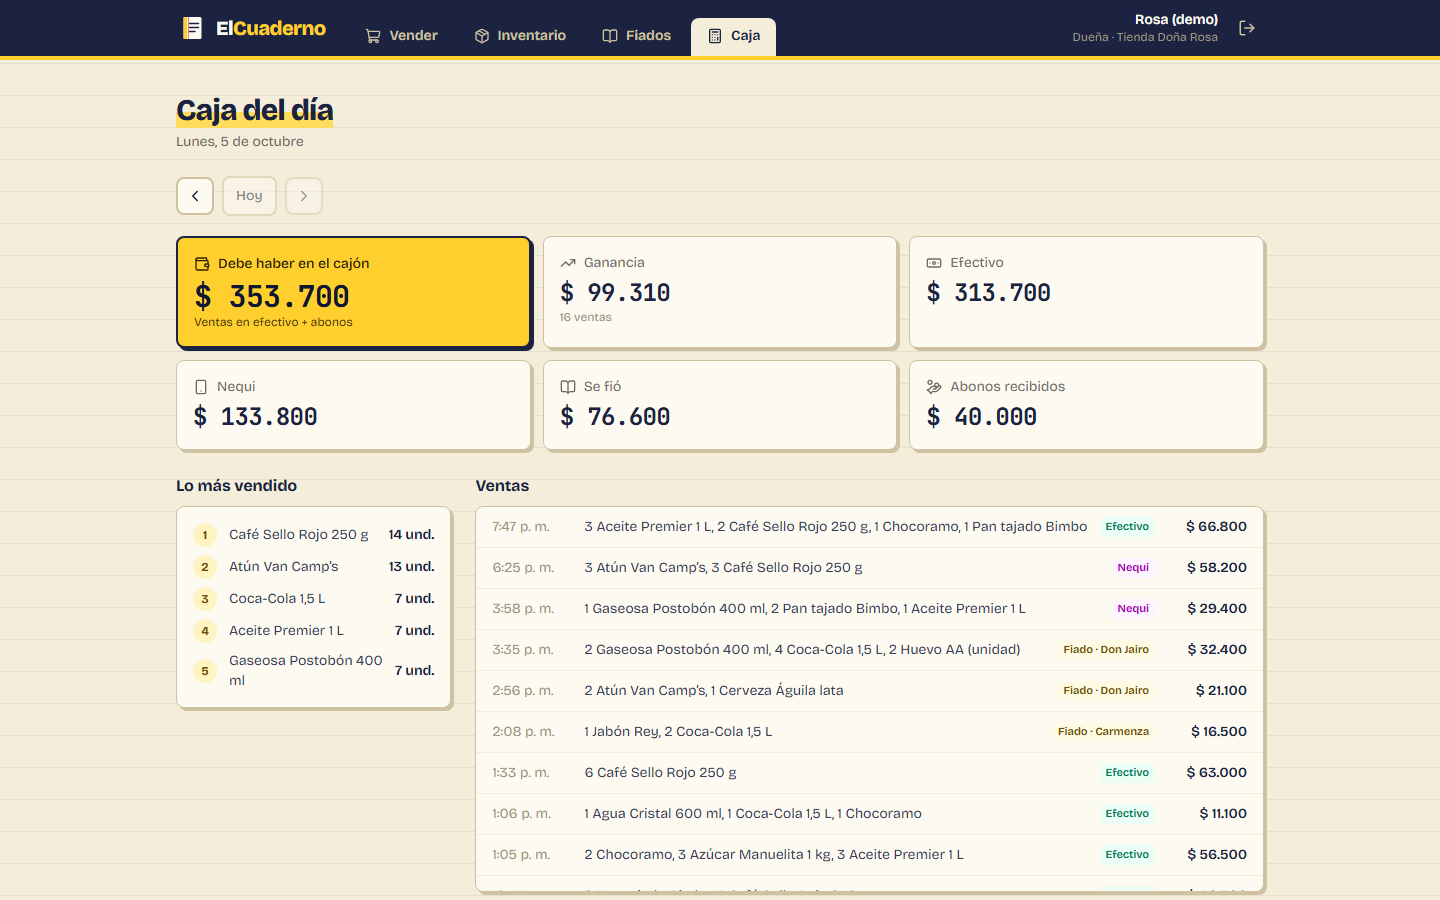
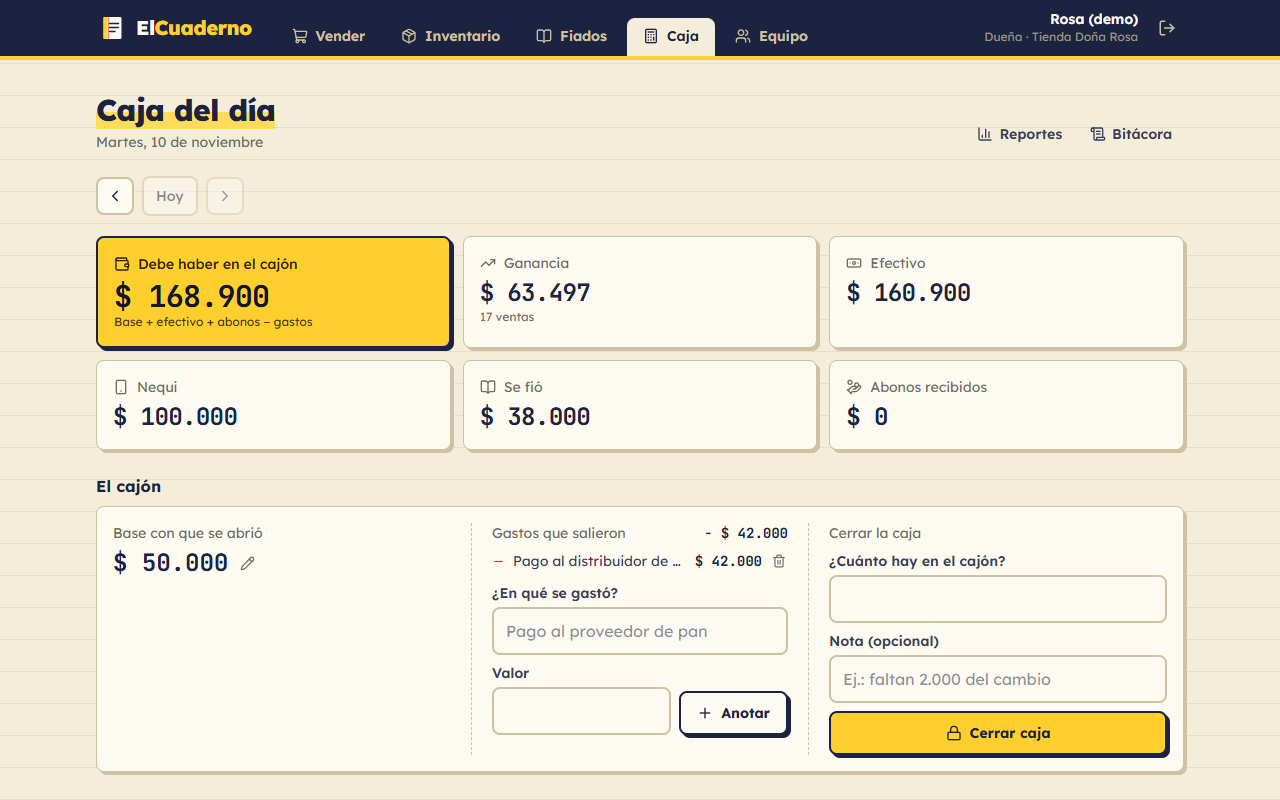
Documentación: arquitectura, 17 decisiones y capturas nuevas
- docs/arquitectura.md: piezas y viaje de una petición, sesión con versión, una venta paso a
  paso, modelo de datos con sus restricciones, módulos, CI y límites conocidos (diagramas mermaid).
- docs/decisiones.md: 17 decisiones con alternativas y costo.
- 01-diseno.md al día (varias tiendas, equipo, caja, granel, Ley 1581) y README enlazado.
- Capturas tomadas de la demo publicada, con reportes y equipo.

Changed region(s): [[0.0, 0.0, 1.0, 1.0], [0.7812, 0.1562, 0.9062, 0.1875]]

diff --git a/docs/arquitectura.md b/docs/arquitectura.md
@@ -1,0 +1,194 @@
+# Arquitectura de ElCuaderno
+
+Cómo está armado el sistema y por qué. Las decisiones una por una están en [`decisiones.md`](decisiones.md); las historias de usuario y las reglas de negocio, en [`01-diseno.md`](01-diseno.md).
+
+## 1. Las piezas y por dónde viaja una petición
+
+```mermaid
+flowchart LR
+    subgraph Celular["Celular o computador de la tienda"]
+        W["Web React<br/>(misma página para dueña y cajero)"]
+    end
+    subgraph Vercel["Vercel"]
+        S["Archivos estáticos<br/>+ CSP y cabeceras"]
+        R["Reescritura /api/*"]
+    end
+    subgraph Render["Render (plan gratuito)"]
+        A["API NestJS<br/>guarda global · Zod · bitácora"]
+    end
+    subgraph Neon["Neon"]
+        P[("PostgreSQL 16")]
+    end
+
+    W -- "GET /, /assets/*" --> S
+    W -- "fetch('/api/...')<br/>cookie httpOnly" --> R
+    R -- "HTTPS" --> A
+    A -- "SQL (Drizzle)" --> P
+```
+
+- **La web y la API comparten dominio.** La web nunca llama a `onrender.com`: llama a `/api/...` en su propio dominio y Vercel la reenvía ([`vercel.json`](../apps/web/vercel.json)). Gracias a eso la cookie de sesión puede ser `SameSite=Strict` y no hace falta CORS en producción.
+- **Un solo paquete de tipos.** `packages/shared` tiene los esquemas Zod y las funciones de dinero y peso. La web los importa del código fuente (alias de Vite) y la API los compila. Una regla, como "contraseña con letras y números" o "fiar exige cliente", se escribe una sola vez.
+- **La demo se siembra al arrancar.** Render corre `migrar → sembrar → arrancar`. Así la "Tienda Doña Rosa" siempre amanece limpia, y de paso se borran las tiendas de prueba que la gente registró hace más de 7 días.
+
+## 2. Sesión: cookie httpOnly y versión de sesión
+
+```mermaid
+sequenceDiagram
+    autonumber
+    participant N as Navegador
+    participant G as Guarda global (NestJS)
+    participant BD as PostgreSQL
+
+    N->>G: POST /api/auth/login (correo, clave)
+    Note over G: 5 fallos por correo en 15 min → 429
+    G->>BD: usuario + tienda; bcrypt.compare
+    G-->>N: Set-Cookie elcuaderno_sesion (HttpOnly, Secure, SameSite=Strict, 8 h)<br/>JWT con { sub, tiendaId, rol, v }
+
+    N->>G: GET /api/productos (con la cookie)
+    G->>G: verifica la firma del JWT
+    G->>BD: SELECT activo, version_sesion FROM usuarios WHERE id = sub
+    alt desactivado o v distinta
+        G-->>N: 401 "Tu sesión se cerró"
+    else vigente
+        G->>G: revisa @Roles('DUENO') si la ruta lo pide
+        G-->>N: 200 (solo datos de su tiendaId)
+    end
+```
+
+- **JavaScript nunca ve el token.** Lo que la web guarda en `localStorage` es solo el nombre, el rol y la tienda, para pintar la pantalla mientras `/auth/yo` confirma la sesión.
+- **Cerrar sesiones de verdad.** Un JWT normal vale hasta que vence, aunque el cajero ya se haya ido. Por eso cada usuario tiene `version_sesion`, que sube cuando la dueña lo desactiva, le pone una clave temporal o él mismo cambia su clave. La guarda compara esa versión en cada petición (una consulta por llave primaria), y el token viejo deja de servir de inmediato.
+- **Aislamiento entre tiendas.** Cada consulta filtra por el `tiendaId` que viene en el token, nunca por uno que mande el navegador. Hay pruebas que intentan leer y modificar datos de otra tienda y esperan 404.
+
+## 3. Una venta, paso a paso
+
+```mermaid
+sequenceDiagram
+    autonumber
+    participant C as Cajero
+    participant V as VentasService
+    participant BD as PostgreSQL
+
+    C->>V: POST /api/ventas { medio, clienteId?, items[] }
+    Note over V: ZodPipe: fiar exige cliente,<br/>sin productos repetidos
+    V->>BD: BEGIN
+    V->>BD: productos de la tienda (precio, costo, por peso)
+    Note over V: subtotal = precio × cantidad<br/>o precio del kilo × gramos ÷ 1000, redondeado a $50
+    opt medio = FIADO
+        V->>BD: SELECT cliente ... FOR UPDATE
+        V->>V: deuda + total ≤ cupo
+    end
+    loop cada producto
+        V->>BD: UPDATE productos SET stock = stock − n<br/>WHERE id = ? AND stock ≥ n
+        alt 0 filas
+            V->>BD: ROLLBACK
+            V-->>C: 422 "No hay suficiente arroz: quedan 2"
+        end
+    end
+    V->>BD: INSERT venta + detalles (precio y costo del momento)
+    V->>BD: COMMIT
+    V-->>C: 201 venta
+    Note over V: el interceptor anota en la bitácora:<br/>"Registró una venta · EFECTIVO · $ 7.000"
+```
+
+- **Sin sobreventa.** El `WHERE stock >= n` hace que la base decida: si dos cajeros venden la última unidad al mismo tiempo, solo una fila se actualiza. Una prueba lanza 5 ventas simultáneas de la última unidad y verifica que solo una gana.
+- **El cupo no se salta.** El `FOR UPDATE` sobre el cliente hace que dos fiados o abonos simultáneos se esperen el uno al otro.
+- **El pasado no cambia.** El detalle guarda precio, costo, subtotal y costo total del momento. La caja y los reportes suman esas columnas, así que subir un precio hoy no altera la ganancia de ayer.
+
+## 4. Modelo de datos
+
+```mermaid
+erDiagram
+    TIENDAS ||--o{ USUARIOS : tiene
+    TIENDAS ||--o{ PRODUCTOS : vende
+    TIENDAS ||--o{ CLIENTES : atiende
+    TIENDAS ||--o{ VENTAS : registra
+    TIENDAS ||--o{ MOVIMIENTOS_CAJA : "base y gastos"
+    TIENDAS ||--o{ CIERRES_CAJA : "uno por día"
+    VENTAS ||--|{ DETALLES_VENTA : contiene
+    PRODUCTOS ||--o{ DETALLES_VENTA : aparece_en
+    PRODUCTOS ||--o{ ENTRADAS_INVENTARIO : "llegadas"
+    CLIENTES |o--o{ VENTAS : "fiado"
+    CLIENTES ||--o{ ABONOS : paga
+    USUARIOS ||--o{ VENTAS : hace
+
+    TIENDAS { int id PK
+      text nombre
+      timestamptz creada_en
+      timestamptz politica_aceptada_en }
+    USUARIOS { int id PK
+      text email UK
+      text rol "DUENO | CAJERO"
+      bool activo
+      int version_sesion }
+    PRODUCTOS { int id PK
+      int precio "por unidad o por kilo"
+      int costo "promedio ponderado"
+      int stock "unidades o gramos, CHECK >= 0"
+      bool por_peso
+      bool activo }
+    CLIENTES { int id PK
+      int cupo
+      bool autoriza_datos "Ley 1581"
+      timestamptz suprimido_en }
+    VENTAS { int id PK
+      text medio "EFECTIVO | NEQUI | FIADO"
+      int total
+      timestamptz anulada_en "con motivo y quién" }
+    DETALLES_VENTA { int cantidad
+      int precio_unitario
+      int subtotal
+      int costo_total }
+    BITACORA { text usuario_nombre
+      text accion
+      text detalle
+      timestamptz creado_en }
+```
+
+Reglas que vive en la base (además de las del código), para que ni un error de programación las rompa:
+
+| Tabla | Restricción |
+|---|---|
+| `productos` | `stock >= 0`, `precio > 0`, `0 <= costo <= precio` |
+| `ventas` | un fiado siempre tiene cliente; la anulación guarda fecha, quién y motivo, las tres o ninguna |
+| `movimientos_caja` | una sola base por tienda y día (índice único parcial); un gasto siempre tiene concepto |
+| `cierres_caja` | un cierre por tienda y día |
+| `bitacora` | sin llaves foráneas (sobrevive al usuario) y un trigger impide `UPDATE` y `DELETE`; solo la recarga de la demo, dentro de su transacción, la puede vaciar |
+
+La **deuda** de cada vecino no es una columna: se calcula como fiados no anulados menos abonos, con subconsultas. Nunca queda desincronizada.
+
+## 5. Módulos de la API
+
+| Módulo | Qué hace |
+|---|---|
+| `auth` | login, registro de tiendas, cambio de clave, guarda global (`@Publico`, `@Roles`), límites de intentos y de registros |
+| `usuarios` | equipo de la tienda: crear cajeros, desactivarlos, clave temporal |
+| `productos` | catálogo, llegadas de mercancía con costo promedio, venta a granel |
+| `clientes` | vecinos, cupos, abonos y supresión de datos (Ley 1581) |
+| `ventas` | venta atómica y anulación (solo de hoy, sin dejar saldo a favor) |
+| `caja` | caja del día, base, gastos, cierre y reportes por rango |
+| `bitacora` | interceptor que anota cada cambio que salió bien y su consulta paginada |
+| `comun` | `ZodPipe`, `IdPipe`, errores de negocio (422) y filtro de errores inesperados |
+
+## 6. Calidad: qué revisa el CI en cada cambio
+
+```mermaid
+flowchart LR
+    PR["Push o Pull Request"] --> L["ESLint<br/>+ Vitest (12)"]
+    PR --> J["Jest + Supertest<br/>contra PostgreSQL (90)"]
+    PR --> B["Build de la web<br/>(tipos de TypeScript)"]
+    PR --> E["Playwright (14)<br/>escritorio y celular<br/>+ axe WCAG 2.1 AA"]
+    L & J & B & E --> M{"¿Todo verde?"}
+    M -- sí --> U["Se une a main → Render y Vercel publican"]
+```
+
+- **Jest** levanta la app completa contra un PostgreSQL real, no contra simulaciones. Así prueba los `CHECK`, los bloqueos `FOR UPDATE`, el trigger de la bitácora y las zonas horarias.
+- **Playwright** usa la app compilada, como en producción, con la API sembrada con la demo. Recorre lo que haría una persona: entrar con las notas adhesivas, vender, registrar una tienda, crear un cajero y desactivarlo.
+- **axe-core** revisa la accesibilidad de todas las pantallas. Ya encontró y se arreglaron un rojo y un gris con poco contraste, botones sin nombre en el celular y una gráfica sin foco visible.
+- **Dependabot** propone cada semana las actualizaciones, y cada una pasa por este mismo CI antes de unirse.
+
+## 7. Límites conocidos (y qué haría después)
+
+- **La API duerme.** En el plan gratuito de Render se apaga tras un rato sin uso y la primera petición tarda cerca de un minuto. La pantalla de acceso lo avisa. En producción real iría en un plan siempre encendido.
+- **Límites en memoria.** Los contadores de intentos de login y de registros viven en la memoria del proceso. Con una sola instancia funciona; con varias, irían a la base de datos o a Redis.
+- **Sin facturación electrónica** (DIAN) ni pagos en línea: están fuera del alcance a propósito.
+- **Sin modo sin conexión.** Si se cae el internet en la tienda, no se puede vender. Una PWA con cola de ventas pendientes sería el siguiente paso grande.

diff --git a/docs/decisiones.md b/docs/decisiones.md
@@ -1,0 +1,105 @@
+# Decisiones de diseño
+
+Cada decisión tiene lo que se escogió, qué otras opciones había y qué se paga por ella. Sirve para entender el código y para no volver a discutir lo ya decidido sin una razón nueva.
+
+### D-01 · El dinero en pesos enteros (`integer`)
+- **Se escogió:** guardar todo en pesos enteros, sin decimales, validado con Zod (`int()`).
+- **Alternativas:** `numeric(12,2)` o `float`.
+- **Por qué:** en Colombia los precios no llevan centavos, y con `float` aparecen errores de redondeo (0,1 + 0,2 ≠ 0,3).
+- **Costo:** si algún día se vendiera en otra moneda con centavos, habría que migrar a centésimas.
+
+### D-02 · La base de datos decide si hay stock
+- **Se escogió:** `UPDATE productos SET stock = stock − n WHERE id = ? AND stock >= n` dentro de la transacción de la venta, más un `CHECK (stock >= 0)`.
+- **Alternativas:** leer el stock, comparar en el código y luego escribir; o bloquear la fila con `FOR UPDATE`.
+- **Por qué:** leer y luego escribir permite que dos cajeros vendan la misma última unidad. El `UPDATE` condicional es atómico, no espera bloqueos y una prueba de 5 ventas simultáneas lo demuestra.
+- **Costo:** el mensaje de error necesita una consulta extra para decir cuántas quedan.
+
+### D-03 · La deuda se calcula, no se guarda
+- **Se escogió:** deuda = fiados no anulados − abonos, con subconsultas SQL cada vez que se pide.
+- **Alternativas:** una columna `deuda` en `clientes` que se actualiza con cada venta y abono.
+- **Por qué:** una columna calculada a mano se desincroniza con el primer error (una anulación, un reintento). Una tienda tiene cientos de movimientos, no millones: el cálculo es instantáneo.
+- **Costo:** si hubiera millones de filas, convendría una vista materializada.
+
+### D-04 · Bloquear al cliente al fiar o abonar
+- **Se escogió:** `SELECT ... FOR UPDATE` sobre el cliente antes de validar el cupo.
+- **Alternativas:** validar sin bloquear.
+- **Por qué:** dos fiados al mismo tiempo podrían ver la misma deuda vieja y pasarse juntos del cupo. Con el bloqueo, el segundo espera al primero.
+- **Costo:** dos ventas fiadas al mismo vecino en el mismo instante se atienden una tras otra (es lo correcto).
+
+### D-05 · Anular en vez de borrar
+- **Se escogió:** la venta equivocada se marca anulada, con fecha, quién y motivo. Las unidades vuelven al inventario. Solo se anulan ventas de hoy y no se anula un fiado que el vecino ya abonó.
+- **Alternativas:** borrar la venta, o editarla.
+- **Por qué:** borrar deja la caja de ese día sin explicación. Limitarlo a hoy evita cambiar cierres pasados, y bloquear el fiado abonado evita dejar al vecino con saldo a favor.
+- **Costo:** corregir una venta de ayer exige registrarla de nuevo con el monto bueno.
+
+### D-06 · Sesión en cookie httpOnly a través del mismo dominio
+- **Se escogió:** el JWT viaja en una cookie `HttpOnly; Secure; SameSite=Strict; Path=/api`. La web llama a `/api` en su dominio y Vercel la reenvía a Render.
+- **Alternativas:** guardar el token en `localStorage` y mandarlo en `Authorization`; o una cookie entre dominios con `SameSite=None`.
+- **Por qué:** en `localStorage`, cualquier script inyectado se lleva el token. Una cookie entre dominios exige CORS con credenciales y abre la puerta al CSRF. Con el mismo dominio, la cookie es estricta.
+- **Costo:** depende de la reescritura de Vercel; en local la imita el proxy de Vite.
+
+### D-07 · Versión de sesión revisada en cada petición
+- **Se escogió:** `usuarios.version_sesion`, que va dentro del JWT (`v`) y que la guarda compara en cada petición. Sube al desactivar, al poner clave temporal o al cambiar la propia clave.
+- **Alternativas:** JWT puro sin consulta, esperando a que venza (8 h); o una lista negra de tokens.
+- **Por qué:** un cajero que se fue no puede seguir vendiendo 8 horas. Una consulta por llave primaria cuesta menos de un milisegundo y no hay que guardar tokens.
+- **Costo:** la API ya no es 100 % "sin estado": cada petición toca la base. Es aceptable porque casi todas ya lo hacían.
+
+### D-08 · Límites de intentos por correo, no por IP
+- **Se escogió:** 5 fallos de login por correo en 15 minutos; 20 registros de tiendas por hora para toda la API.
+- **Alternativas:** límite por IP.
+- **Por qué:** todas las peticiones llegan a Render desde el proxy de Vercel, así que por IP todos los usuarios serían "la misma persona".
+- **Costo:** los contadores viven en memoria. Con varias instancias de la API, tendrían que ir a la base o a Redis.
+
+### D-09 · Bitácora inmutable y sin llaves foráneas
+- **Se escogió:** un interceptor anota cada cambio que salió bien. Un trigger de PostgreSQL impide `UPDATE` y `DELETE`, y la tabla guarda el nombre del usuario en lugar de depender de él.
+- **Alternativas:** registrar desde cada servicio; permitir editar.
+- **Por qué:** la dueña necesita confiar en que nadie borró rastro. Si fuera editable, no serviría como control.
+- **Costo:** la recarga de la demo necesita una excepción explícita (`set_config` dentro de su transacción) para vaciarla.
+
+### D-10 · De los vecinos, la bitácora solo guarda el número (Ley 1581)
+- **Se escogió:** "Creó un cliente · Cliente #12", nunca el nombre. Sin autorización del vecino no se guarda el cliente, y la supresión borra nombre y teléfono pero conserva las compras sin datos personales.
+- **Alternativas:** guardar el nombre para que la bitácora sea más legible.
+- **Por qué:** si un vecino pide borrar sus datos, una tabla inmutable no puede quedarse con su nombre.
+- **Costo:** para saber quién es el cliente #12 hay que abrir Fiados.
+
+### D-11 · Precio y costo del momento en cada detalle
+- **Se escogió:** el detalle guarda precio unitario, costo unitario, subtotal y costo total al vender. Caja y reportes suman esas columnas.
+- **Alternativas:** calcular con el precio actual del producto.
+- **Por qué:** si mañana sube el arroz, las ventas y la ganancia de ayer no pueden cambiar.
+- **Costo:** algunas columnas repetidas por cada línea de venta.
+
+### D-12 · Venta a granel: precio por kilo, stock en gramos, redondeo a $50
+- **Se escogió:** el producto "por peso" guarda precio y costo por kilo y el stock en gramos enteros. El subtotal se redondea a los $50 más cercanos y la misma función (`subtotalLinea`) la usan la web y la API.
+- **Alternativas:** decimales de kilo; un producto por cada presentación (¼ lb, ½ lb).
+- **Por qué:** así funcionan las básculas de las tiendas, los gramos enteros evitan decimales, y no circulan monedas de menos de $50. Un producto no puede cambiar de "por unidad" a "por peso", porque su historial quedaría mezclado.
+- **Costo:** el cobro puede diferir unos pesos del cálculo exacto (siempre al múltiplo de 50 más cercano).
+
+### D-13 · Costo promedio ponderado en cada llegada
+- **Se escogió:** al llegar mercancía, costo nuevo = (stock × costo actual + llegada × costo de compra) ÷ stock total.
+- **Alternativas:** dejar el último costo; costeo FIFO por lotes.
+- **Por qué:** refleja lo que de verdad pagó la tienda sin llevar lotes, que una tienda de barrio no maneja.
+- **Costo:** no sirve para trazar lotes ni vencimientos.
+
+### D-14 · "Hoy" en hora de Colombia, calculado en la base
+- **Se escogió:** los días se calculan con `America/Bogota` en las consultas, y la zona entra con `sql.raw` después de validarla con una expresión regular.
+- **Alternativas:** días en UTC; calcular en JavaScript.
+- **Por qué:** en UTC, una venta a las 8 p. m. caería en el día siguiente. Pasar la zona como parámetro hacía que el `GROUP BY` no coincidiera con el `SELECT` y la consulta fallaba.
+- **Costo:** hay que mantener la validación de la zona para que `sql.raw` sea seguro.
+
+### D-15 · Un cajero no se borra: se desactiva
+- **Se escogió:** `usuarios.activo` y un máximo de 10 cajeros activos; las cuentas de la demo no se pueden tocar.
+- **Alternativas:** borrar al usuario.
+- **Por qué:** sus ventas, abonos y la bitácora lo nombran. Borrarlo rompería el historial o las llaves foráneas.
+- **Costo:** su correo queda ocupado; para volver, se reactiva la misma cuenta.
+
+### D-16 · Pruebas contra PostgreSQL real, de punta a punta con Playwright
+- **Se escogió:** Jest + Supertest contra una base de pruebas real, y Playwright contra la app compilada, con axe para la accesibilidad.
+- **Alternativas:** simular la base (mocks) y probar solo unidades.
+- **Por qué:** lo importante de este sistema vive en la base (bloqueos, `CHECK`, el trigger, las zonas horarias), y un mock no lo prueba. Playwright y axe encontraron problemas que las pruebas de la API no podían ver (contraste, botones sin nombre en el celular).
+- **Costo:** el CI necesita un PostgreSQL de servicio y tarda unos minutos más.
+
+### D-17 · La demo se siembra en cada arranque
+- **Se escogió:** `migrar → sembrar → arrancar` en Render. La tienda de demo se reconoce por el correo de su dueña, y de paso se borran las tiendas de prueba de más de 7 días.
+- **Alternativas:** sembrar una sola vez; una tarea programada aparte.
+- **Por qué:** cualquiera puede anular ventas o cambiar precios en la demo, y en el siguiente arranque vuelve a quedar limpia. Reconocerla por el nombre era peligroso: alguien podía registrar otra tienda llamada igual.
+- **Costo:** en la demo pública los datos de prueba no duran. Está avisado en el registro.

diff --git a/docs/01-diseno.md b/docs/01-diseno.md
@@ -19,7 +19,21 @@ En Colombia, la tienda de barrio vende a crédito ("fiado") a los vecinos y lo a
 - Caja del día: cuánto entró por cada medio, cuánto se fió, cuánto se abonó y la ganancia.
 - Reportes: productos más vendidos y lista de deudores.
 
-**No incluye (a propósito):** facturación electrónica, varias tiendas ni pagos en línea.
+**No incluye (a propósito):** facturación electrónica ni pagos en línea.
+
+### Lo que se agregó después de la versión 1
+
+- **Varias tiendas:** cualquiera registra la suya y queda como dueña. Cada consulta filtra por la tienda del token (el `tienda_id` que ya tenía cada tabla).
+- **Equipo:** la dueña crea cajeros, les pone una clave temporal y los desactiva. Desactivarlos les cierra la sesión de inmediato.
+- **Caja completa:** base del día, gastos que salen del cajón y cierre con lo contado y la diferencia.
+- **Anular ventas** de hoy, con motivo.
+- **Llegada de mercancía** con proveedor y costo promedio ponderado.
+- **Venta a granel:** por peso o "por plata", con báscula de ¼ lb, ½ lb, 1 lb y 1 kg.
+- **Reportes** por semana, mes o rango.
+- **Bitácora** inmutable de quién hizo qué.
+- **Datos de los vecinos** según la Ley 1581: autorización y supresión.
+
+La arquitectura actual está en [`arquitectura.md`](arquitectura.md) y cada decisión, con sus alternativas, en [`decisiones.md`](decisiones.md).
 
 ## 3. Historias de usuario
 
@@ -110,9 +124,9 @@ Cada tabla lleva `tienda_id` para que la base ya esté lista para varias tiendas
 | Validación compartida | Zod en `packages/shared` | Un solo esquema valida el formulario en React y el cuerpo de la petición en la API |
 | API | NestJS 11 | Módulos, inyección de dependencias y guardas de roles: el estándar para Node.js en empresas |
 | Datos | Drizzle ORM + PostgreSQL 16 | Consultas tipadas y SQL explícito donde importa (el descuento de stock) |
-| Autenticación | JWT + bcrypt | Sesión sin estado, con rol dentro del token |
+| Autenticación | JWT en cookie httpOnly + bcrypt | Rol dentro del token y versión de sesión revisada en cada petición, para cerrar sesiones al instante ([D-07](decisiones.md)) |
 | Frontend | React 19 + Vite + Tailwind + TanStack Query | Pensado primero para el celular del mostrador |
-| Pruebas | Jest + Supertest contra PostgreSQL real | Incluye una prueba de concurrencia sobre el último producto |
+| Pruebas | Jest + Supertest contra PostgreSQL real, Vitest y Playwright con axe | Incluye una prueba de concurrencia sobre el último producto y accesibilidad en todas las pantallas |
 | Infraestructura | Docker, GitHub Actions, Render, Neon, Vercel | El mismo flujo de los otros proyectos |
 
 ```

diff --git a/README.md b/README.md
@@ -14,7 +14,14 @@ En la tienda de barrio se vende fiado y se anota en un cuaderno. Ahí se pierden
 |---|---|---|
 | ![Caja](docs/capturas/02-caja.png) | ![Fiados](docs/capturas/03-fiados.png) | ![Celular](docs/capturas/04-celular.png) |
 
-El diseño completo (historias de usuario, reglas de negocio y modelo de datos) está en [`docs/01-diseno.md`](docs/01-diseno.md).
+| Reportes por rango | Equipo de la tienda |
+|---|---|
+| ![Reportes](docs/capturas/05-reportes.png) | ![Equipo](docs/capturas/06-equipo.png) |
+
+**Documentación:**
+- [Diseño](docs/01-diseno.md): historias de usuario, reglas de negocio y alcance.
+- [Arquitectura](docs/arquitectura.md): diagramas de las piezas, la sesión, una venta paso a paso y el modelo de datos.
+- [Decisiones](docs/decisiones.md): 17 decisiones con sus alternativas y lo que cuestan.
 
 ## Lo más interesante técnicamente
 
@@ -49,9 +56,10 @@ El diseño completo (historias de usuario, reglas de negocio y modelo de datos) 
 ```
 ElCuaderno/
 ├── packages/shared/   esquemas Zod, tipos y formato de pesos
-├── apps/api/          NestJS: auth, productos, clientes, ventas, caja (+ migraciones y demo)
-├── apps/web/          React: vender, inventario, fiados, caja
-└── docs/              diseño y capturas
+├── apps/api/          NestJS: auth, usuarios, productos, clientes, ventas, caja, bitácora (+ migraciones y demo)
+├── apps/web/          React: vender, inventario, fiados, caja, reportes, equipo, registro
+├── e2e/               Playwright: recorridos y accesibilidad (axe)
+└── docs/              diseño, arquitectura, decisiones y capturas
 ```
 
 ## API
